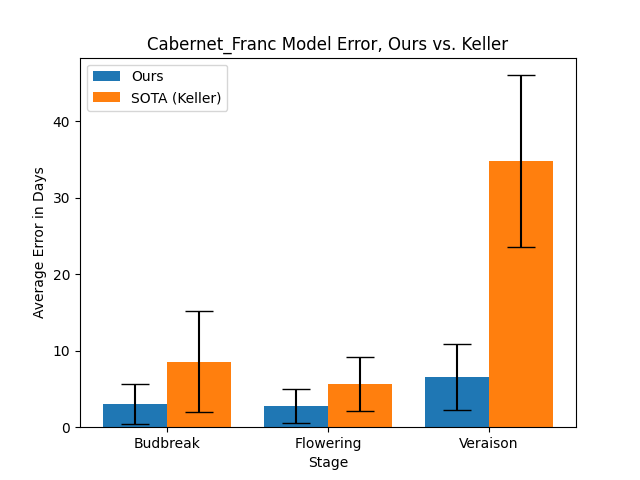
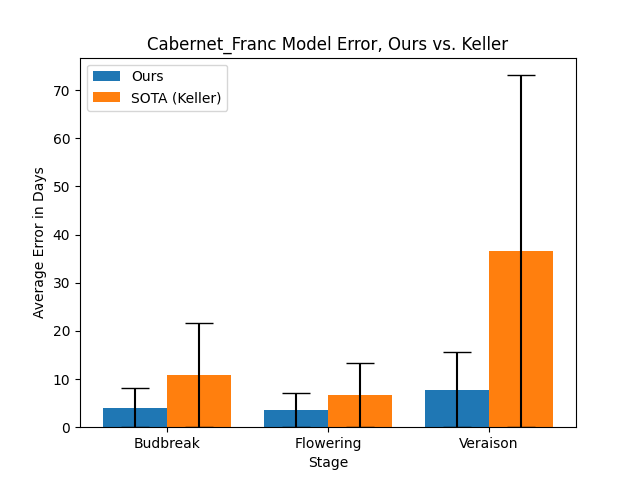
data

diff --git a/bayesian_optimizer.py b/bayesian_optimizer.py
@@ -396,6 +396,22 @@ class BayesianNonDormantOptimizer():
             return len(true_stage_args) + len(model_stage_args)
         else:
             return np.abs(true_stage_args[0] - model_stage_args[0])
+        
+    @staticmethod
+    def compute_RMSE_STAGE(true, model, stage, val_stages):
+        curr_stage = (PHENOLOGY_INT[stage]) % len(PHENOLOGY_INT)
+        prev_stage = (PHENOLOGY_INT[stage]-1) % len(PHENOLOGY_INT)
+
+        model_output = model["PHENOLOGY"].to_numpy()
+        true_output = true["PHENOLOGY"].to_numpy()
+
+        true_stage_args = np.argwhere(true_output == curr_stage).flatten()
+        model_stage_args = np.argwhere(model_output == curr_stage).flatten()
+        
+        if len(true_stage_args) == 0 or len(model_stage_args) == 0:
+            return len(true_stage_args) + len(model_stage_args)
+        else:
+            return (true_stage_args[0] - model_stage_args[0])**2
 
 
     def load_config_data(self):
@@ -626,14 +642,14 @@ class BayesianNonDormantOptimizer():
         rmse = np.zeros((2, self.n_stages-1, len(true)))
         for s in range(self.n_stages-1):
             for i in range(len(true)):
-                rmse[0, s,i] = BayesianNonDormantOptimizer.compute_SUM_STAGE(true[i],model_1[i], self.stages[s], [])
-                rmse[1, s,i] = BayesianNonDormantOptimizer.compute_SUM_STAGE(true[i],model_2[i], self.stages[s], [])
+                rmse[0, s,i] = BayesianNonDormantOptimizer.compute_RMSE_STAGE(true[i],model_1[i], self.stages[s], [])
+                rmse[1, s,i] = BayesianNonDormantOptimizer.compute_RMSE_STAGE(true[i],model_2[i], self.stages[s], [])
         
-        rmse_avg = np.mean(rmse,axis=-1)
-        rmse_std = np.std(rmse,axis=-1)
+        rmse_avg = np.sqrt(np.mean(rmse,axis=-1))
+        rmse_std = np.sqrt(np.mean(rmse,axis=-1))
 
         with open("data.txt", "a") as f:
-            f.write(f"{self.cultivar}, {np.round(rmse_avg[0],decimals=21)}\n")
+            f.write(f"{self.cultivar}, {np.round(rmse_avg[0],decimals=4)}, {np.round(rmse_std[0],decimals=4)}\n")
         f.close()
         x = np.arange(self.n_stages-1)
         plt.figure()
